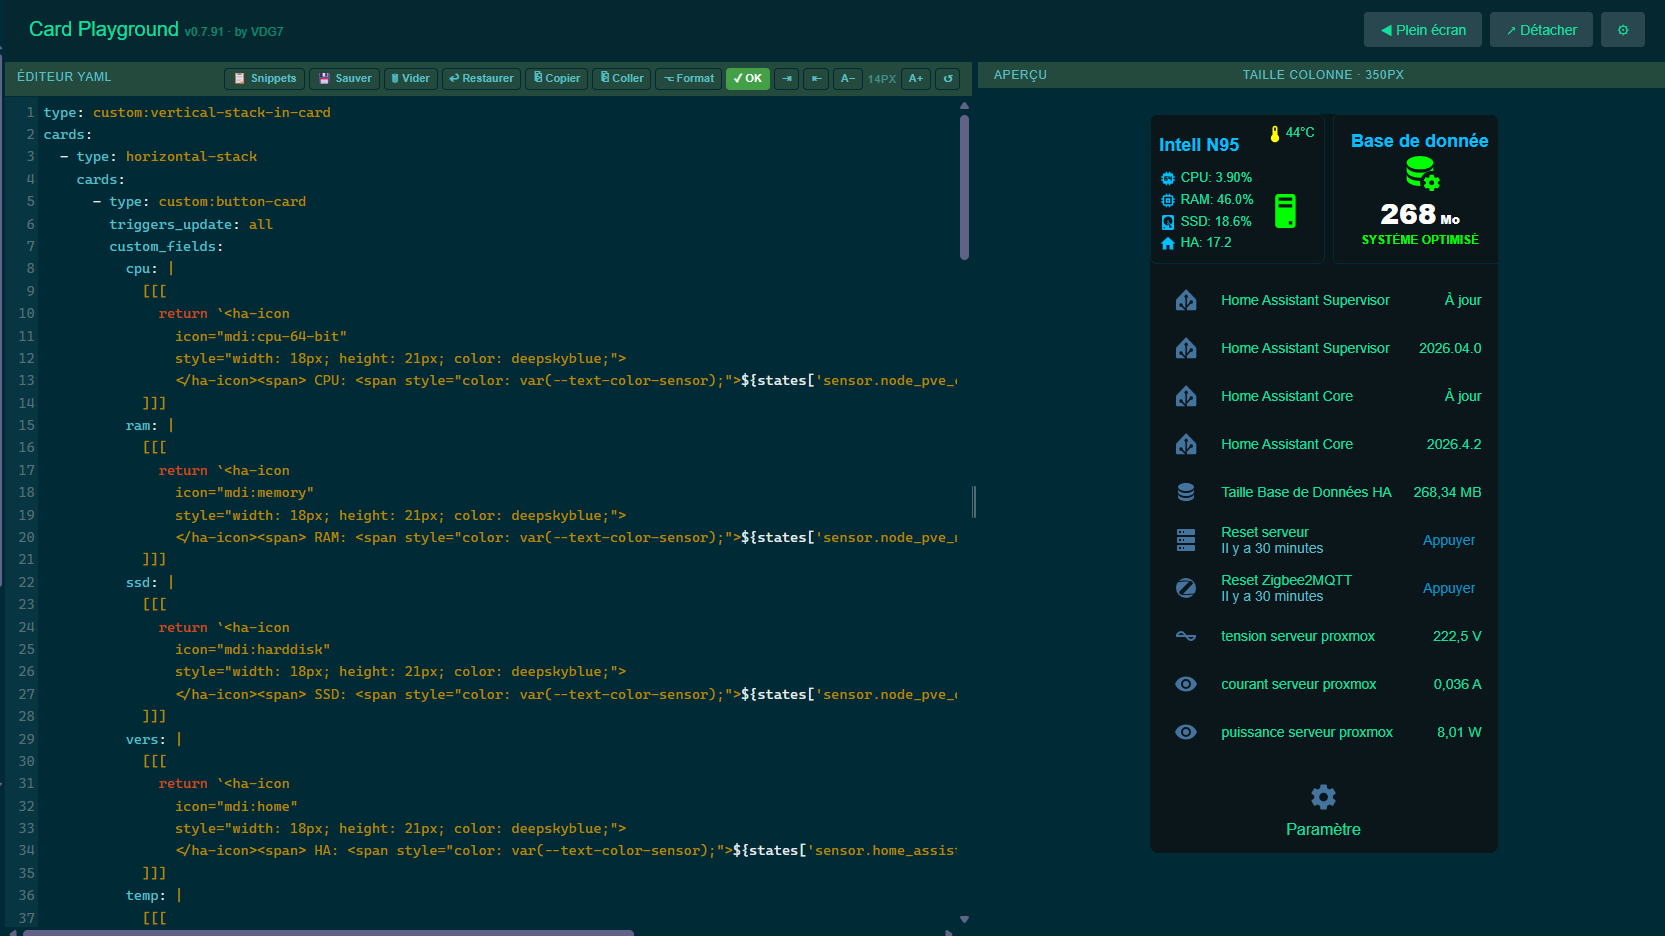
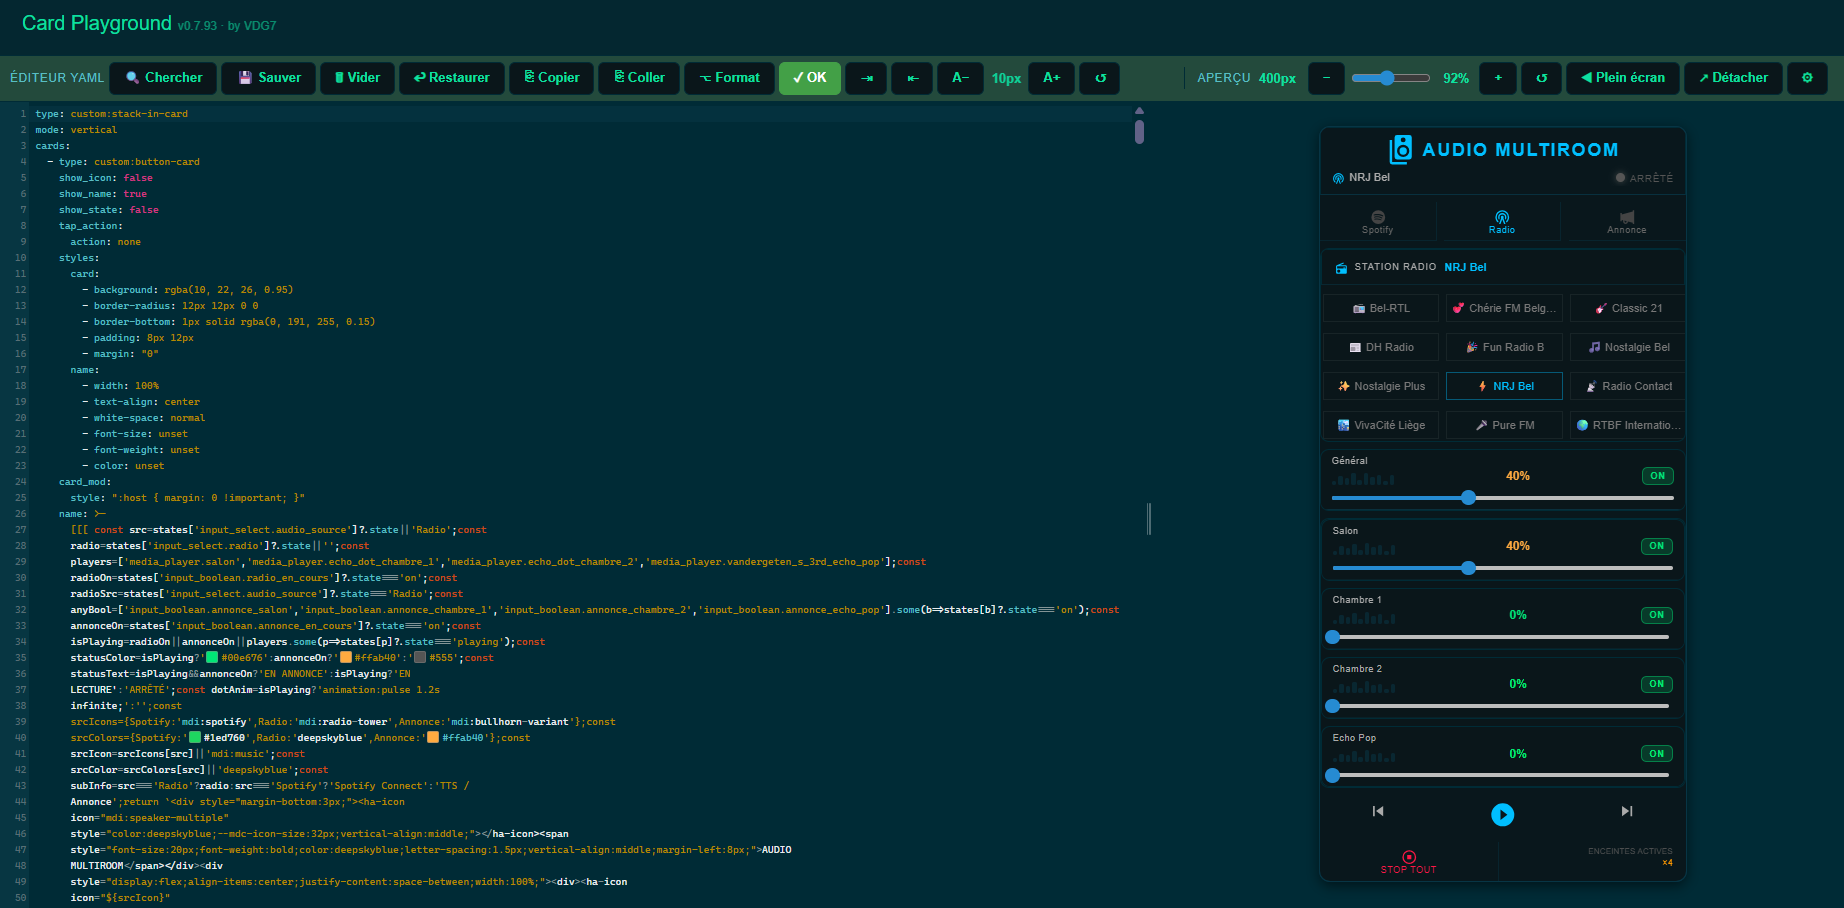
0.7.93 — mise à jour screenshots nouvelle interface + before/after changelog

Changed region(s): [[0.0, 0.0, 1.0, 1.0]]

diff --git a/README.md b/README.md
@@ -373,17 +373,11 @@ Opens via the **⚙** button in the header. Closes when clicking anywhere outsid
 
 ![HA Card Playground — fullscreen editor](screenshots/fullscreen-editor.png)
 
-### Save Blocked on Error — File Protection
+### YAML Search — 🔍 Chercher
 
-![HA Card Playground — save blocked when errors detected](screenshots/yaml-checker-save-blocked.png)
+![HA Card Playground — YAML search popup](screenshots/yaml-checker-config-file.png)
 
-> When errors are detected in file mode, the **⬇ Fichier** (download) button turns red and is disabled — you can't accidentally overwrite your config with broken YAML. Fix all errors first.
-
-### YAML Checker on a Real Config File (drag & drop)
-
-![HA Card Playground — checker on a config file](screenshots/yaml-checker-config-file.png)
-
-> Drag & drop any `.yaml` file from your HA config onto the editor. The checker validates `!include` paths, indentation, and calls the HA API to verify the config — perfect for editing `configuration.yaml` or package files.
+> Click **🔍 Chercher** to open the search popup. Results appear from 2 characters — navigate with `↑` / `↓`. Autocomplete suggests entity IDs and card types from the current YAML. The matched line is highlighted with a red gutter marker, left border, and background.
 
 ### Settings Panel
 

diff --git a/CHANGELOG.md b/CHANGELOG.md
@@ -6,6 +6,16 @@ Toutes les modifications validées, par version. Les tentatives abandonnées ou 
 
 ## v0.7.93 — Recherche YAML, inspection bidirectionnelle, unified toolbar, zoom curseur
 
+### Interface — avant / après
+
+**Avant (v0.7.92) :**
+![Interface v0.7.92](screenshots/interface-before.png)
+
+**Après (v0.7.93) :**
+![Interface v0.7.93](screenshots/main-view.png)
+
+---
+
 ### 🔍 Chercher — Recherche YAML avec highlight
 
 Remplace le bouton **📋 Snippets** (supprimé entièrement, code inclus).
